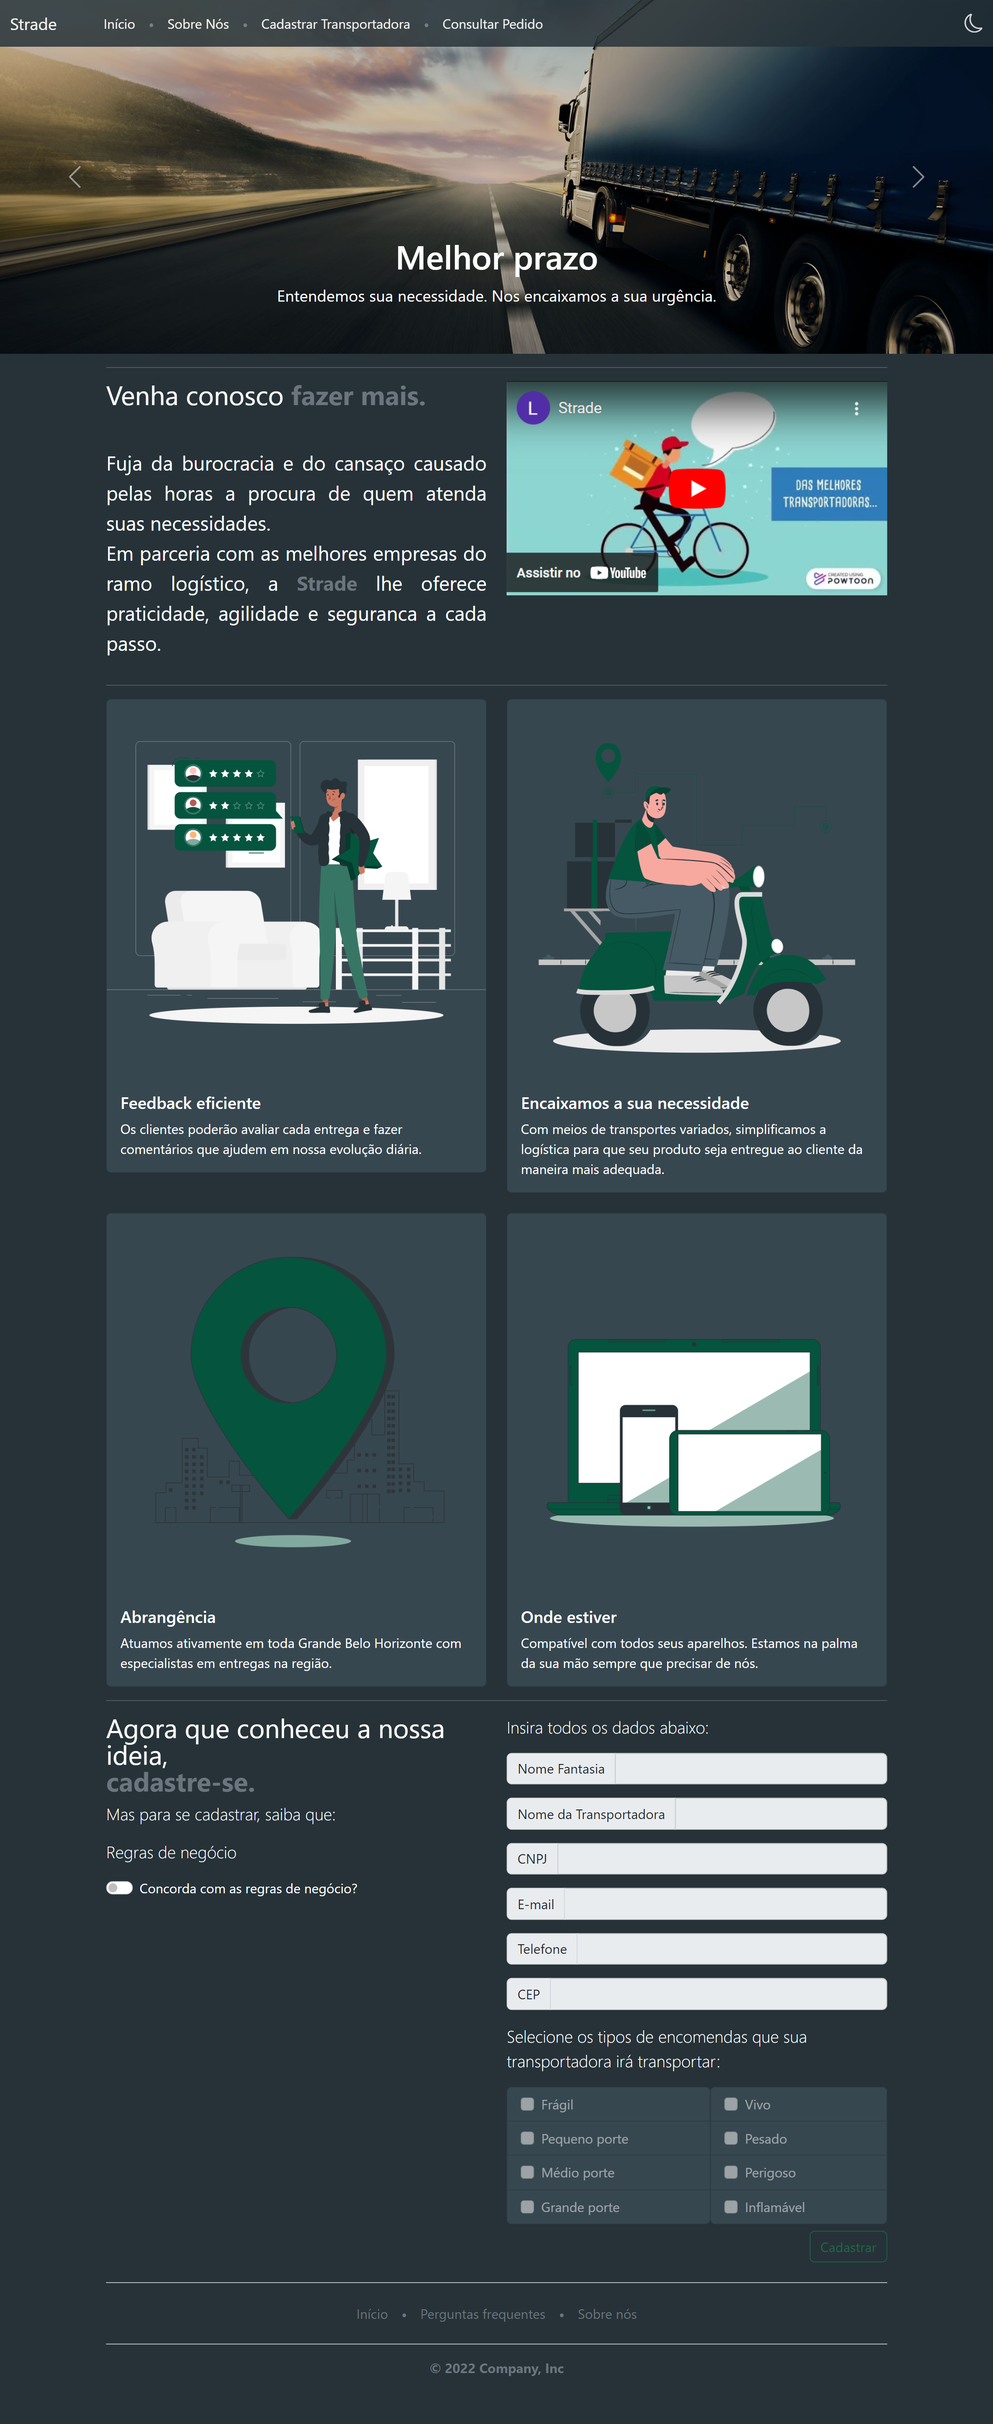
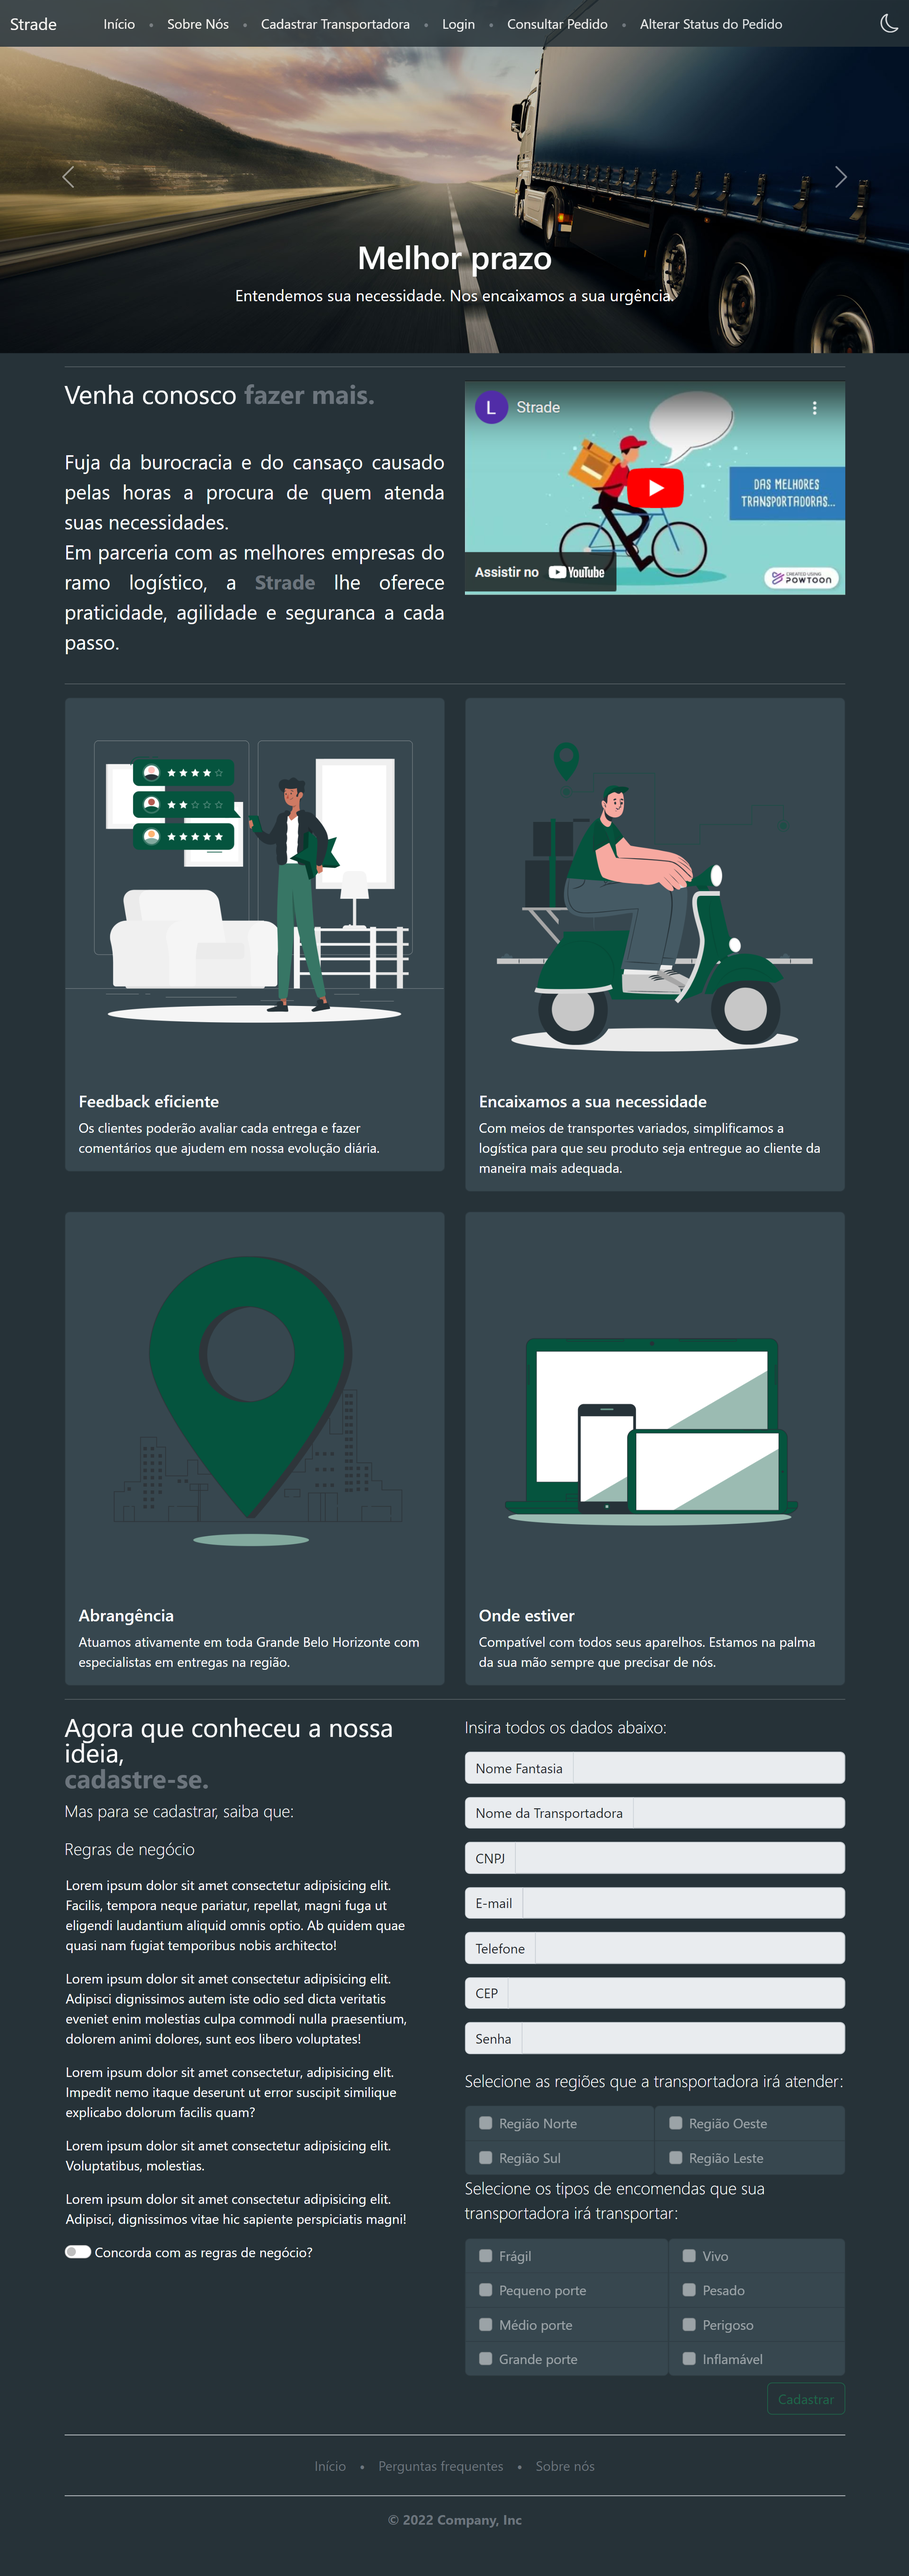
DOC -  Atualização dos registros de testes

diff --git a/docs/09-Registro de Testes de Software.md b/docs/09-Registro de Testes de Software.md
@@ -1,49 +1,78 @@
-# Registro de Testes de Software
+# Registro de Testes de Software Primeira Etapa
 
 <span style="color:red">Pré-requisitos: <a href="3-Projeto de Interface.md"> Projeto de Interface</a></span>, <a href="8-Plano de Testes de Software.md"> Plano de Testes de Software</a>
 
 Para cada caso de teste definido no Plano de Testes de Software, realize o registro das evidências dos testes feitos na aplicação pela equipe, que comprovem que o critério de êxito foi alcançado (ou não!!!). Para isso, utilize uma ferramenta de captura de tela que mostre cada um dos casos de teste definidos (obs.: cada caso de teste deverá possuir um vídeo do tipo _screencast_ para caracterizar uma evidência do referido caso).
 
-## CT-06 - Verificar a função de Hipersensibilidade -Dark Mode 
+## CT-01 - Lista de Trasportadoras - Site Loja
 
->### Dark Mode Inativo:
-><img src="./img/Dark-mode-inativo.png" height="100%" width="100%">
->
->### Dark Mode ativo
-><img src="./img/Dark-mode-ativo.png" height="100%" width="100%">
->
+### Preenchimento da Região - Site Loja
+
+><img src="./img/site-loja.png" height="100%" width="100%">
+
+A referida funcionalidade foi substituída por uma simplificação de busca por regiões ao invés de ceps.
 
 ## CT-02 – Cadastrar transportadora
 
 ### Cadastro Preenchido
-><img src="./img/Cadastro-Preenchido.png" height="100%" width="100%">
+><img src="./img/cadastro-preenchido.jpg" height="100%" width="100%">
 
 ### Aviso Cadastro Errado
 Todos os campos de cadastro são validados e geram alerta de erro caso preenchido incorretamente.
-><img src="./img/Erro-Cadastro.png" height="100%" width="100%">
+><img src="./img/cadastro-incorreto.jpg" height="100%" width="100%">
 
 ### Aviso Cadastro Concluido
 
-><img src="./img/Aviso-Cadastro-Concluido.png" height="100%" width="100%">
-
-## CT-11 - Banco de Dados Relacional
-
-![image](https://user-images.githubusercontent.com/16859514/206872140-ac8f4e30-6fb7-4313-ae13-fa6d98490a6e.png)
+><img src="./img/cadastro-concluido.jpeg" height="100%" width="100%">
 
 
-## CT-01 - Lista de Trasportadoras - Site Loja
+## CT-03 – Atualização de Status dos itens
 
-### Preenchimento do CEP - Site Loja
+### Alterar Status do pedido
+><img src="./img/alterar-status-pedido.jpg" height="100%" width="100%">
 
-><img src="./img/Busca-CEP.png" height="100%" width="100%">
+### Consultar Status do Pedido - Cliente
+ ><img src="./img/consultar-pedido.jpg" height="100%" width="100%">
+## CT-06 - Verificar a função de Hipersensibilidade -Dark Mode 
 
-A referida funcionalidade foi substrituída por uma simplificação de busca por regiões ao invés de ceps.
+>### Dark Mode Inativo:
+><img src="./img/dark-mode-inativo.png" height="100%" width="100%">
+>
+>### Dark Mode ativo
+><img src="./img/dark-mode-ativo.png" height="100%" width="100%">
+>
 
-### Listagem Trasnportadoras
 
-><img src="./img/Lista-Transportadora.png" height="100%" width="100%">
+### Listagem Transportadoras
 
-## Avaliação
+><img src="./img/lista-transportadora.png" height="100%" width="100%">
+
+
+## Avaliação 1° Etapa
+ ### CT-01 Verificar listagem das trasportadoras
+
+ O sistema lista as transportadoras disponíveis para entrega no endereço indicado. Porém ainda não conseguimos listar mais que uma trasportadora e ao cadastrar nova, só aparece a primeira cadastrada.
+
+
+ # Registro de Testes de Software Última Etapa
+
+### CT-01 Verificar listagem das trasportadoras
+
+ As trasportadoras estão sendo listadas. Atualização no Front-end para processamento de um Array de tamanho *n*. 
+
+![image](https://user-images.githubusercontent.com/16859514/204167014-f7405628-3754-40e8-b304-8b59acbd5912.png)
+
+ ### CT-02 Cadastrar transportadora
+
+Cadastro da trasportadora funcionando perfeitamente.
+
+><img src="./img/cadastro-concluido.jpeg" height="100%" width="100%">
+
+### CT-03 – Atualização de Status dos itens
+
+ Atualização implementada com sucesso.
+
+ ><img src="./img/alterar-status-pedido.jpg" height="100%" width="100%">
 
 ### CT-06 Verificar a função de Hipersensibilidade -Dark Mode
  
@@ -51,10 +80,24 @@ A referida funcionalidade foi substrituída por uma simplificação de busca por
  
  ![image](https://user-images.githubusercontent.com/16859514/204166959-98cb0c21-4458-4d33-a3a2-9341d32da9a3.png)
 
- ### CT-01 Verificar listagem das trasportadoras
+### CT-08 – Regras de negócio para Transportadoras
 
- O sistema lista as transportadoras disponíveis para entrega no endereço indicado. Porém ainda não conseguimos listar mais que uma trasportadora e ao cadastrar nova, só aparece a primeira cadastrada.
- #### Plano de correção 
-Atualização no Front-end para processamento de um Array de tamanho *n*.
+No site aparece a regra de negocio da transportadora.
+><img src="./img/regras-de-negocio.jpg" height="100%" width="100%">
 
-![image](https://user-images.githubusercontent.com/16859514/204167014-f7405628-3754-40e8-b304-8b59acbd5912.png)
+### CT-09 – Responsividade
+ Site permitindo a visualização em um celular de forma adequada.
+
+><img src="./img/responsividade.jpg" height="100%" width="100%">
+
+><img src="./img/responsividade2.jpg" height="100%" width="100%">
+
+
+## CT-11 - Banco de Dados Relacional
+
+![image](https://user-images.githubusercontent.com/16859514/206872140-ac8f4e30-6fb7-4313-ae13-fa6d98490a6e.png)
+
+
+## Avaliação Última Etapa
+
+Todos os testes dos requisitos finalizados foram bem sucedidos.

diff --git a/docs/08-Plano de Testes de Software.md b/docs/08-Plano de Testes de Software.md
@@ -47,6 +47,12 @@
 | **Caso de Teste** 	| **CT-08 – Regras de negócio para Transportadoras**	|
 |Requisito Associado | *RNF-001* O sistema deve ter uma lista com uma regra de negócios para o cadastro das transportadoras. |
 | Objetivo do Teste 	|  Verificar se as regras estão sendo disponibilizadas corretamente |
+| Passos     | - Acessar o site Strade <br> - Clicar em Cadastrar Transportadora <br> -  Clicar em "Termos de negócio".|
+|Critério de Êxito | - O site deve mostrar o texto com as regras de negócio como pré-requisitos para o cadastro da transportadora. |
+|      |      |
+| Caso de Teste     | **CT-09 – Responsividade**    |
+|Requisito Associado | RNF-002 O site do sistema de cadastro das transportadoras deverá ser responsivo, permitindo a visualização em um celular de forma adequada. |
+| Objetivo do Teste     |  Atestar que o site está responsivo |
 | Passos 	| - Acessar o site Strade <br> - Clicar em Cadastrar Transportadora|
 |Critério de Êxito | - O site deve se mostrar responsivo em dispositivos móveis. |
 |  	|  	|

diff --git a/docs/11-Registro de Testes de Usabilidade.md b/docs/11-Registro de Testes de Usabilidade.md
@@ -6,3 +6,6 @@
   
 No total 4  participantes fizeram o teste SUS, e a aplicação obteve a pontuação média de "91,25". O score obtido foi "excepcional". Sendo o parâmetro as regras do próprio método, se a nota for acima de 90 são considerados excepcionais, entre 80 e 90 bons, 70 a 80 aceitáveis, e abaixo de 70, há sérios problemas de usabilidade no sistema. E com isso houve uma reformulação para os pontos fracos. E melhora para a próxima e última etapa. 
 
+### Atualização Teste de Usabilidade Final
+
+Foi realizado novo plano de testes com 9 usuários, e o resultado final com a aplicação já funcional foi de 88.3. Ficando assim pelo parãmetro do próprio método um score considerado "BOM".
